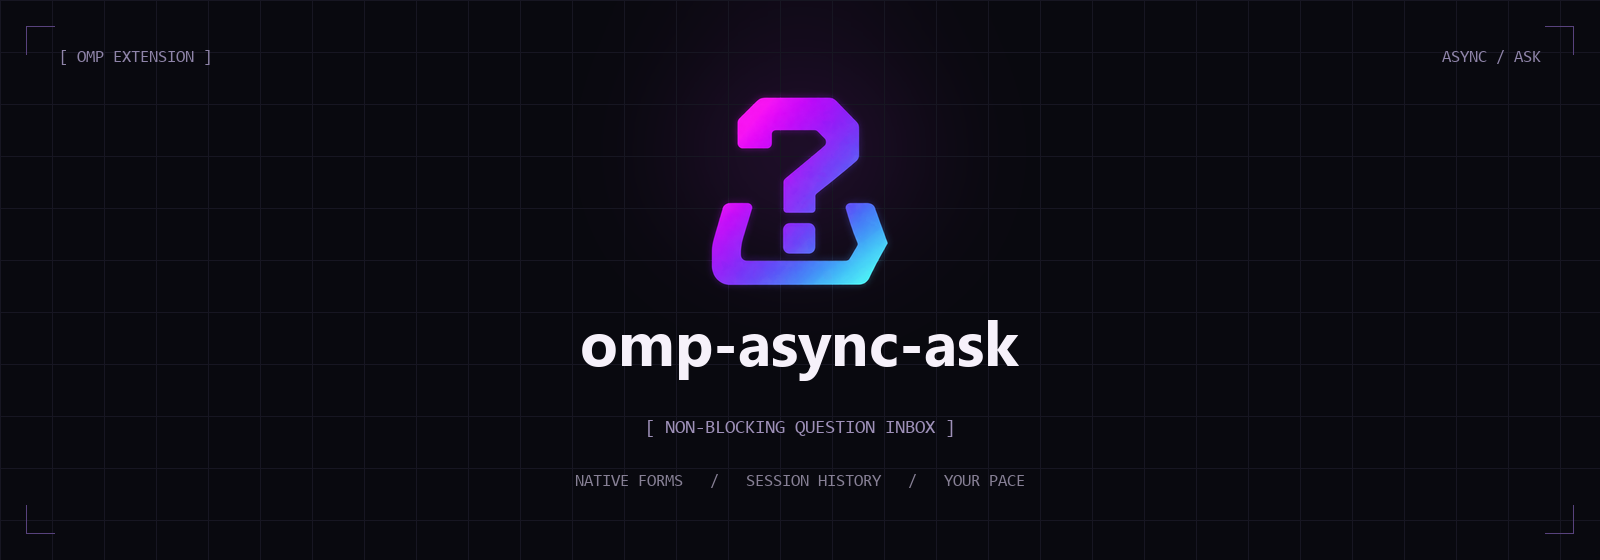
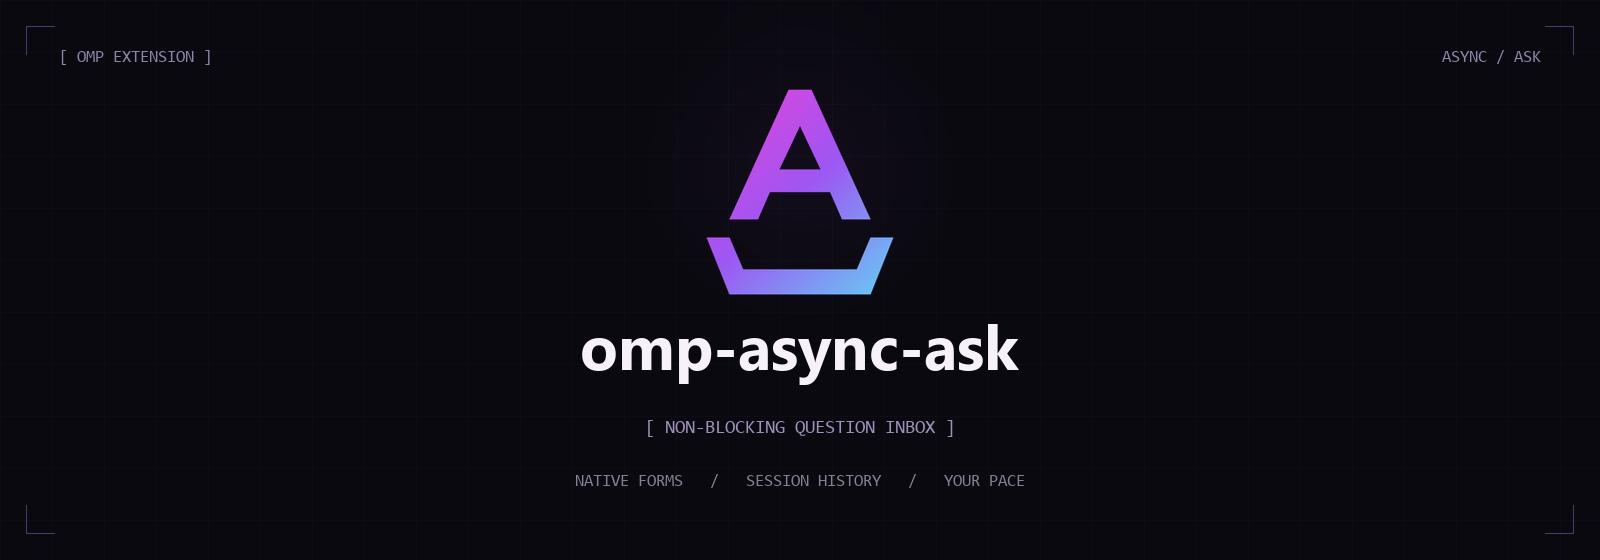
design: replace generated mark with symmetric geometric artwork

Changed region(s): [[0.4375, 0.1518, 0.5625, 0.5464], [0.3438, 0.5768, 0.6562, 0.6982]]

diff --git a/README.md b/README.md
@@ -148,10 +148,10 @@ Use the control port of that isolated window, not a live working session.
 | [`src/attention.ts`](src/attention.ts) | Native session waiting-state indicator |
 | [`src/prompts/`](src/prompts/) | Static model-facing instructions and goal-persistence policy |
 | [`test/`](test/) | Regression tests, native surface harness, and acceptance fixtures |
-| [`assets/`](assets/) | Generated logo and composed README hero |
+| [`assets/`](assets/) | Geometric logo (SVG/PNG) and composed README hero |
 
 Early design and implementation records live in [`docs/superpowers/`](docs/superpowers/). Their original checkout paths are historical; this package now lives independently of the OMP checkout. The native test harness is vendored from OMP under its MIT license and uses published package entrypoints.
 
 ---
 
-[MIT licensed](LICENSE). Built for [oh-my-pi](https://github.com/can1357/oh-my-pi). Visual direction inspired by its [hero artwork](https://github.com/can1357/oh-my-pi/blob/main/assets/hero.png), with an original AI-generated logo and independently composed banner.
+[MIT licensed](LICENSE). Built for [oh-my-pi](https://github.com/can1357/oh-my-pi). Visual direction inspired by its [hero artwork](https://github.com/can1357/oh-my-pi/blob/main/assets/hero.png), with an original [geometric logo](assets/logo.svg) and independently composed banner.
